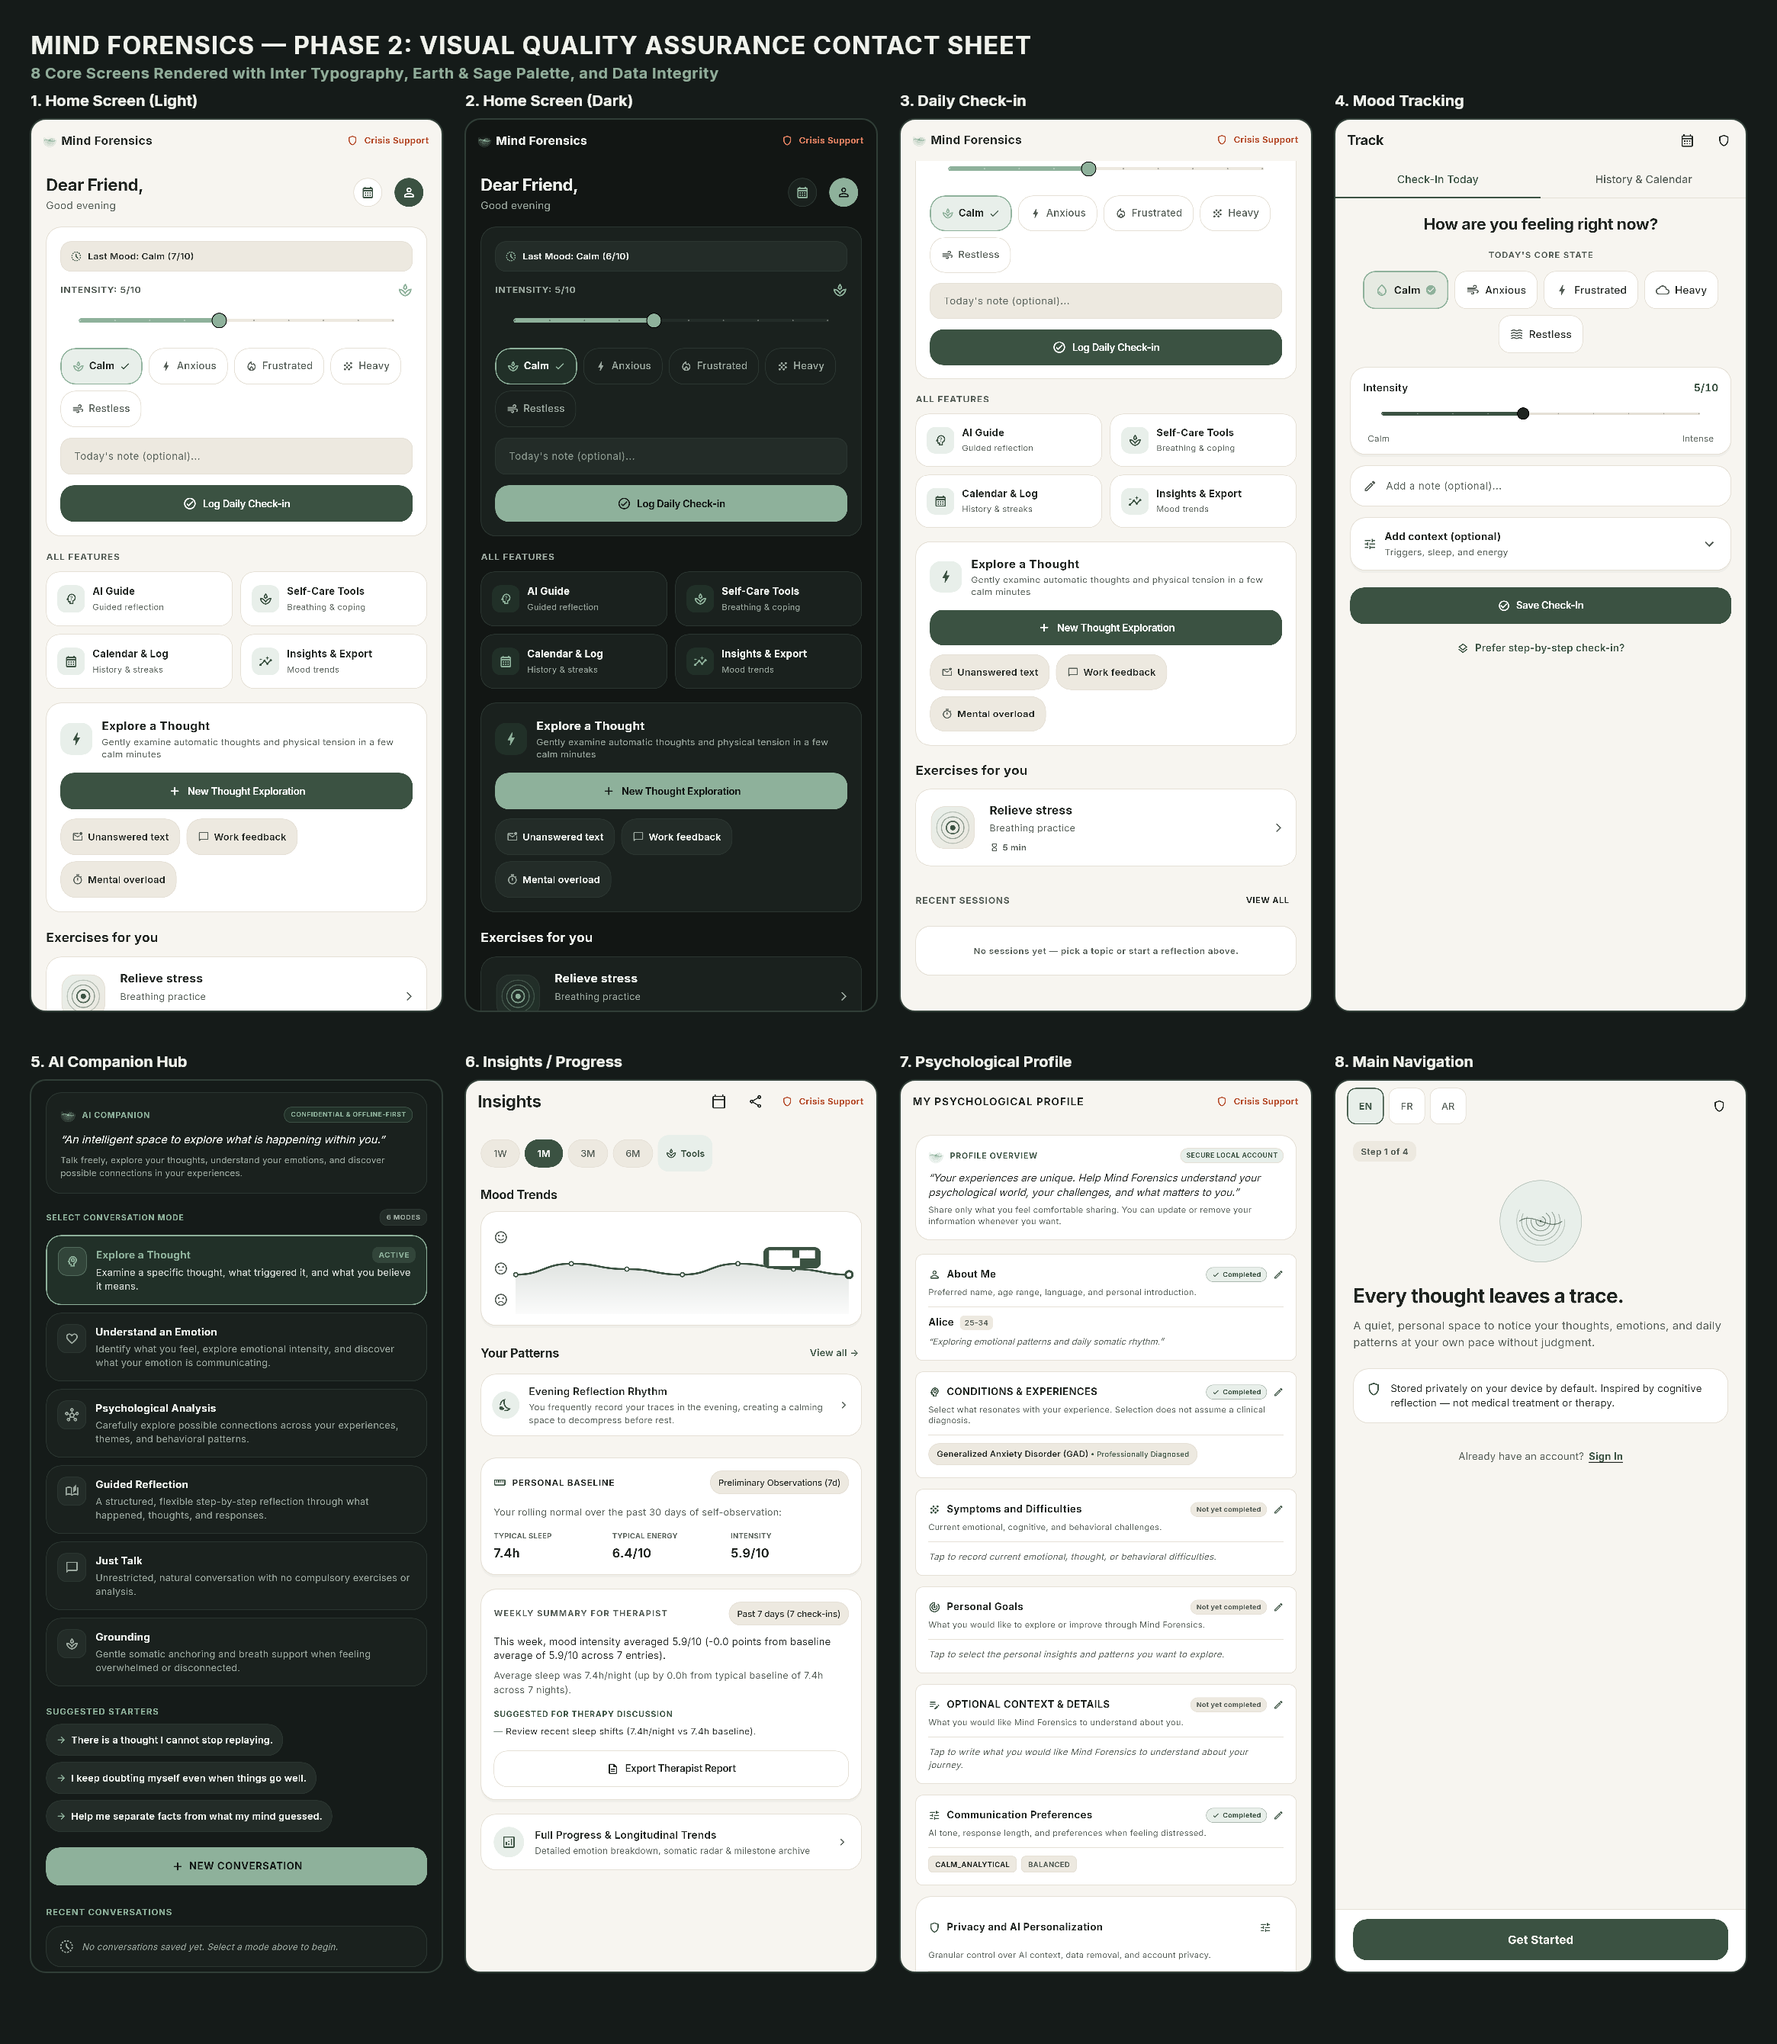
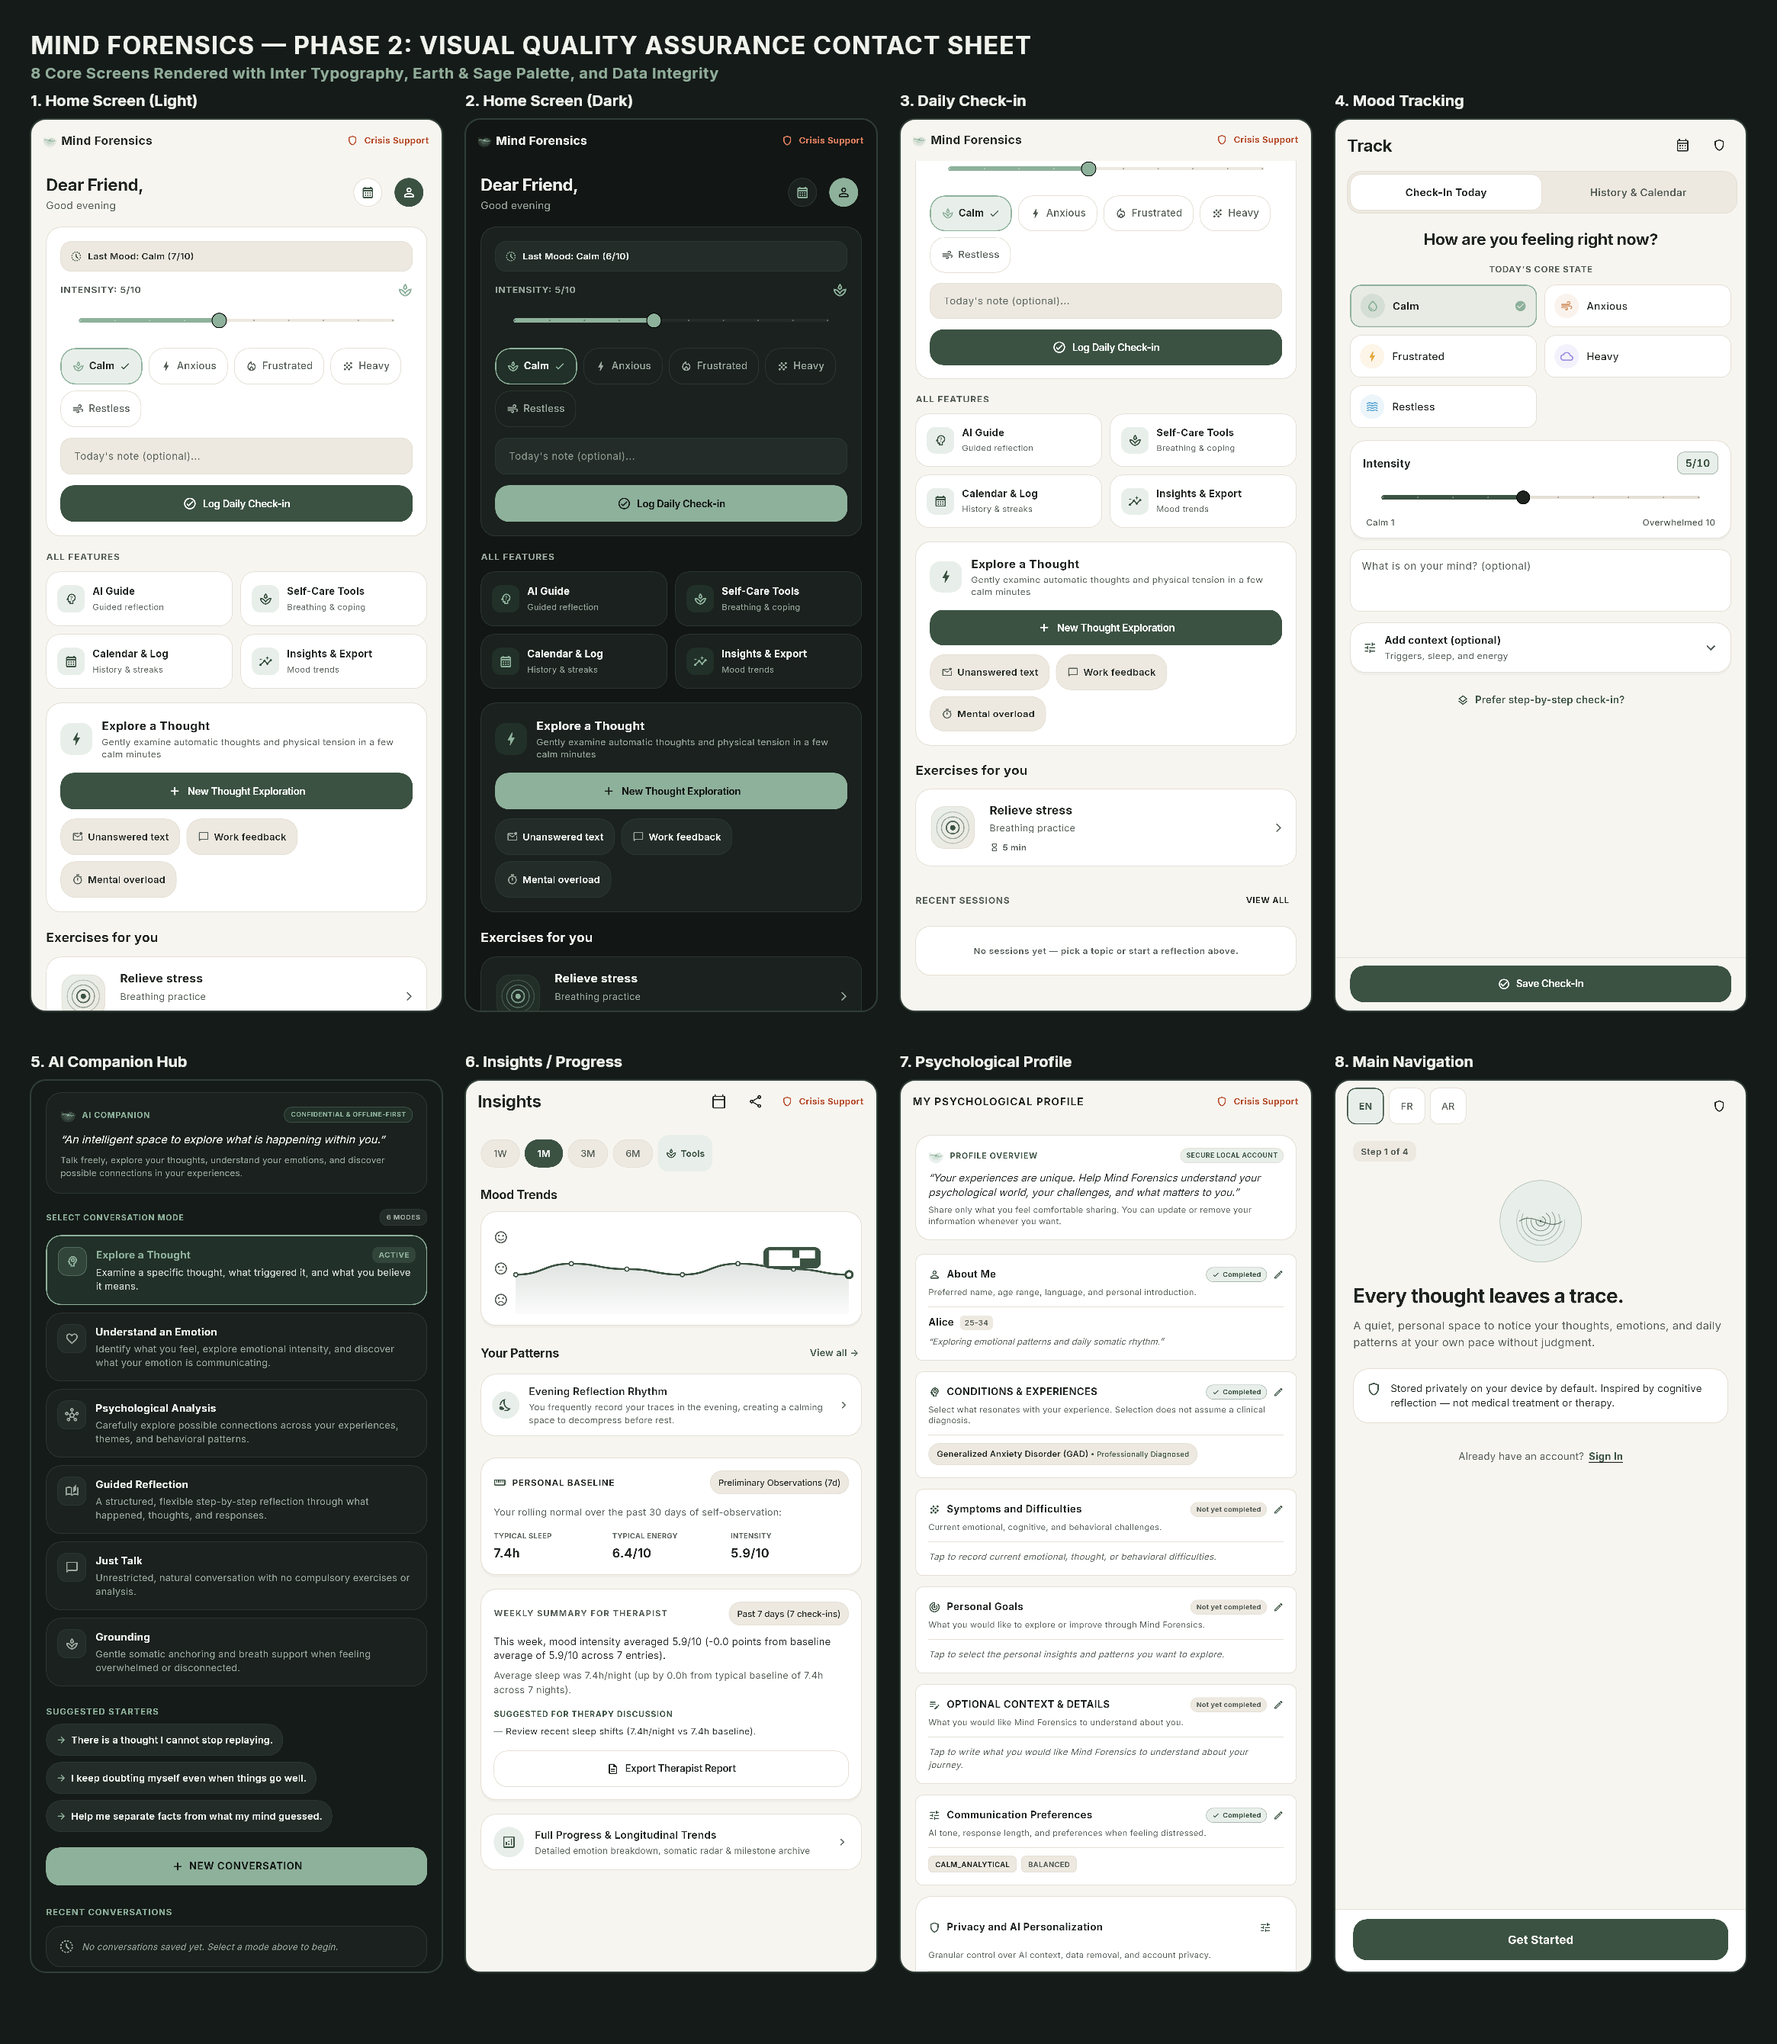
test(step-6): update Track routing/UI/QA assertions and regenerate Step 6 screenshots

Changed region(s): [[0.7416, 0.0929, 0.9888, 0.3407], [0.7416, 0.4646, 0.9888, 0.4955], [0.927, 0.2168, 0.9579, 0.2478]]

diff --git a/test/track_and_insights_ui_test.dart b/test/track_and_insights_ui_test.dart
@@ -6,13 +6,16 @@ import 'package:mind_forensics/app/localization/locale_controller.dart';
 import 'package:mind_forensics/app/theme/lab_theme.dart';
 import 'package:mind_forensics/core/widgets/mind_button.dart';
 import 'package:mind_forensics/core/widgets/mind_card.dart';
+import 'package:mind_forensics/core/widgets/mind_segmented.dart';
 import 'package:mind_forensics/features/insights/presentation/insights_screen.dart';
+import 'package:mind_forensics/features/investigation/controllers/investigation_providers.dart';
 import 'package:mind_forensics/features/mind_trace/controllers/mind_trace_controller.dart';
 import 'package:mind_forensics/features/mind_trace/domain/mind_trace_model.dart';
 import 'package:mind_forensics/features/mind_trace/presentation/widgets/daily_mind_trace_stepper.dart';
 import 'package:mind_forensics/features/track/presentation/track_screen.dart';
 import 'package:mind_forensics/features/track/presentation/widgets/track_entry_detail_sheet.dart';
 import 'package:mind_forensics/features/track/presentation/widgets/track_month_calendar.dart';
+import 'package:mind_forensics/features/track/presentation/widgets/track_mood_picker.dart';
 import 'package:shared_preferences/shared_preferences.dart';
 
 Widget createTestHarness(Widget child) {
@@ -45,19 +48,24 @@ void main() {
         await tester.pumpWidget(createTestHarness(const TrackScreen()));
         await tester.pumpAndSettle();
 
-        // Exactly 2 consolidated tabs + Full Calendar action
-        expect(find.byType(Tab), findsNWidgets(2));
+        // Exactly 2 consolidated segments + Full Calendar action
+        expect(find.byType(MindSegmented), findsOneWidget);
         expect(find.text('Check-In Today'), findsOneWidget);
         expect(find.text('History & Calendar'), findsOneWidget);
         expect(find.byTooltip('Full Calendar & Analytics'), findsOneWidget);
 
-        // 5 Core State cards ('Calm' also appears as the slider left anchor)
+        // 5 Core State cards in 2-col TrackMoodPicker
         expect(find.text("TODAY'S CORE STATE"), findsOneWidget);
-        expect(find.text('Calm'), findsAtLeastNWidgets(1));
+        expect(find.byType(TrackMoodPicker), findsOneWidget);
+        expect(find.byType(TrackIntensitySlider), findsOneWidget);
+        expect(find.text('Calm'), findsOneWidget);
         expect(find.text('Anxious'), findsOneWidget);
         expect(find.text('Frustrated'), findsOneWidget);
         expect(find.text('Heavy'), findsOneWidget);
         expect(find.text('Restless'), findsOneWidget);
+        expect(find.text('Calm 1'), findsOneWidget);
+        expect(find.text('Overwhelmed 10'), findsOneWidget);
+        expect(find.text('What is on your mind? (optional)'), findsOneWidget);
 
         // Primary Intensity slider is visible immediately; context sliders are collapsed initially
         expect(find.text('Intensity'), findsOneWidget);
@@ -116,6 +124,7 @@ void main() {
         await tester.pumpAndSettle();
 
         expect(find.text('Daily check-in and note saved'), findsOneWidget);
+        expect(find.text('Saved'), findsOneWidget);
         expect(find.text("Update Today's Entry"), findsOneWidget);
 
         // Open discreet step-by-step guided modal sheet
@@ -207,9 +216,13 @@ void main() {
         expect(find.text('Long afternoon debugging.'), findsOneWidget);
 
         // Scroll back to calendar top and tap past calendar day to filter history list
-        await tester.ensureVisible(find.text('$altDay'));
+        final calDayFinder = find.descendant(
+          of: find.byType(TrackMonthCalendar),
+          matching: find.text('$altDay'),
+        );
+        await tester.ensureVisible(calDayFinder);
         await tester.pumpAndSettle();
-        await tester.tap(find.text('$altDay'));
+        await tester.tap(calDayFinder);
         await tester.pumpAndSettle();
 
         expect(find.text('Show all'), findsOneWidget);
@@ -296,6 +309,18 @@ void main() {
 
         expect(find.text('Updated evening reflection.'), findsNothing);
         expect(find.text('Quiet morning walk.'), findsOneWidget);
+
+        // Explore with AI Guide seeds activeCaseControllerProvider with mood, intensity, and note
+        await tester.tap(find.text('Quiet morning walk.'));
+        await tester.pumpAndSettle();
+        await tester.tap(find.text('Explore with AI Guide'));
+        await tester.pumpAndSettle();
+
+        final activeCase = container.read(activeCaseControllerProvider).value;
+        expect(activeCase, isNotNull);
+        expect(activeCase!.incidentDescription, contains('Calm'));
+        expect(activeCase.incidentDescription, contains('4/10'));
+        expect(activeCase.incidentDescription, contains('Quiet morning walk.'));
       },
     );
   });

diff --git a/test/final_integration_test.dart b/test/final_integration_test.dart
@@ -17,6 +17,7 @@ import 'package:mind_forensics/features/profile/domain/diagnostic_status.dart';
 import 'package:mind_forensics/features/profile/domain/psychological_profile_model.dart';
 import 'package:mind_forensics/features/progress/data/progress_analytics_service.dart';
 import 'package:mind_forensics/features/progress/domain/progress_analytics_model.dart';
+import 'package:mind_forensics/features/track/presentation/track_screen.dart';
 
 void main() {
   setUp(() {
@@ -253,7 +254,7 @@ void main() {
   });
 
   group('Navigation & Routing Aliasing Tests', () {
-    testWidgets('resolves /check-in redirect to MindTraceScreen without throwing', (tester) async {
+    testWidgets('resolves /check-in and /mind-trace redirects to TrackScreen without throwing', (tester) async {
       await tester.pumpWidget(
         ProviderScope(
           child: MaterialApp.router(
@@ -264,12 +265,22 @@ void main() {
 
       await tester.pumpAndSettle();
 
-      // Navigate to /check-in alias
+      // Navigate to /check-in alias -> lands on TrackScreen
       AppRouter.router.go('/check-in');
       await tester.pumpAndSettle();
+      expect(find.byType(TrackScreen), findsOneWidget);
+      expect(find.text('Check-In Today'), findsOneWidget);
 
-      // Verify we arrived at MindTraceScreen
-      expect(find.textContaining('DAILY MIND TRACE'), findsOneWidget);
+      // Navigate to /mind-trace alias -> lands on TrackScreen
+      AppRouter.router.go(AppRouter.mindTrace);
+      await tester.pumpAndSettle();
+      expect(find.byType(TrackScreen), findsOneWidget);
+
+      // Navigate with initialTabIndex: 1 -> lands on History & Calendar tab
+      AppRouter.router.go(AppRouter.mindTrace, extra: {'initialTabIndex': 1});
+      await tester.pumpAndSettle();
+      expect(find.byType(TrackScreen), findsOneWidget);
+      expect(find.byTooltip('Previous month'), findsOneWidget);
 
       // Return home
       AppRouter.router.go(AppRouter.home);

diff --git a/test/responsive_and_rtl_qa_test.dart b/test/responsive_and_rtl_qa_test.dart
@@ -107,6 +107,7 @@ void main() {
     final screens = <({String name, Widget Function() build})>[
       (name: 'HomeScreen', build: () => const HomeScreen()),
       (name: 'TrackScreen', build: () => const TrackScreen()),
+      (name: 'TrackScreenHistory', build: () => const TrackScreen(initialTab: 1)),
       (name: 'InnerObservatoryScreen', build: () => const InnerObservatoryScreen()),
       (name: 'InsightsScreen', build: () => const InsightsScreen()),
       (name: 'SettingsScreen', build: () => const SettingsScreen()),
